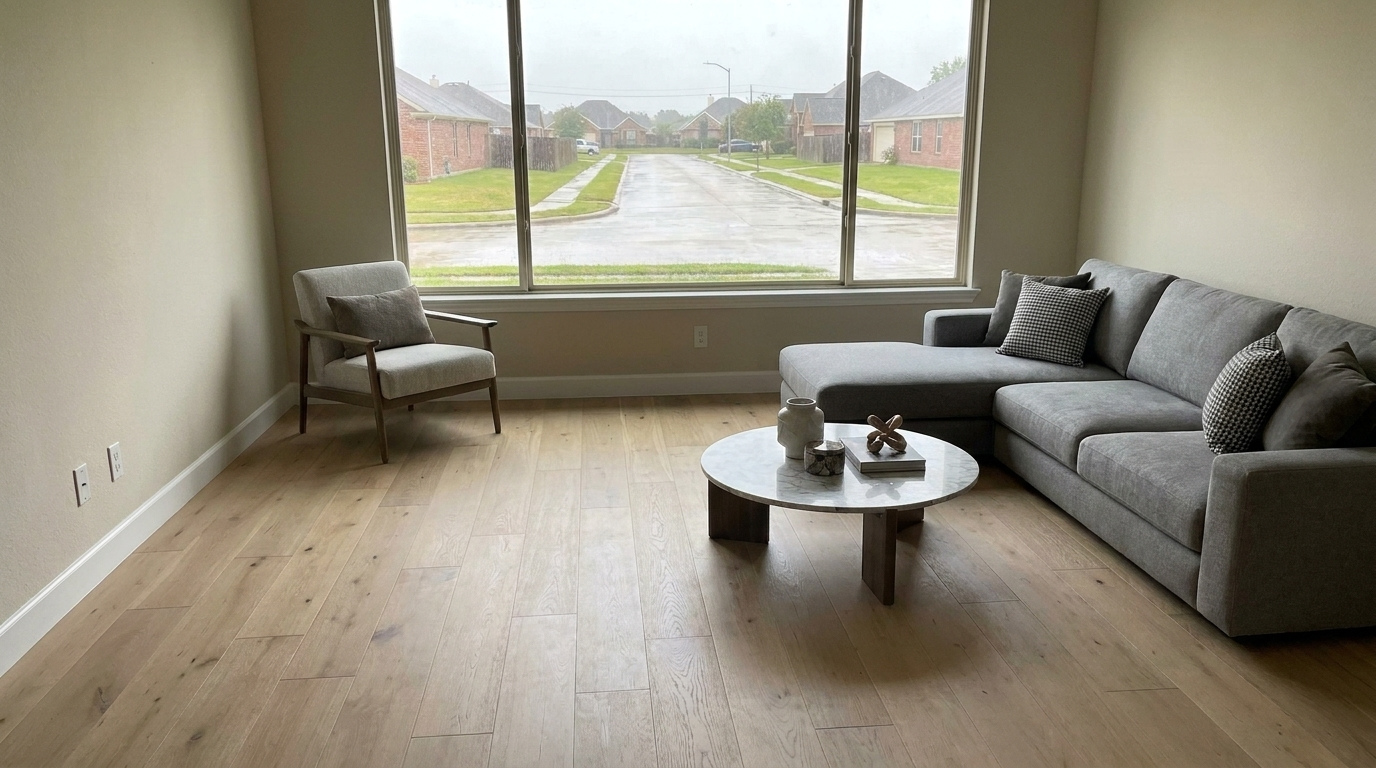
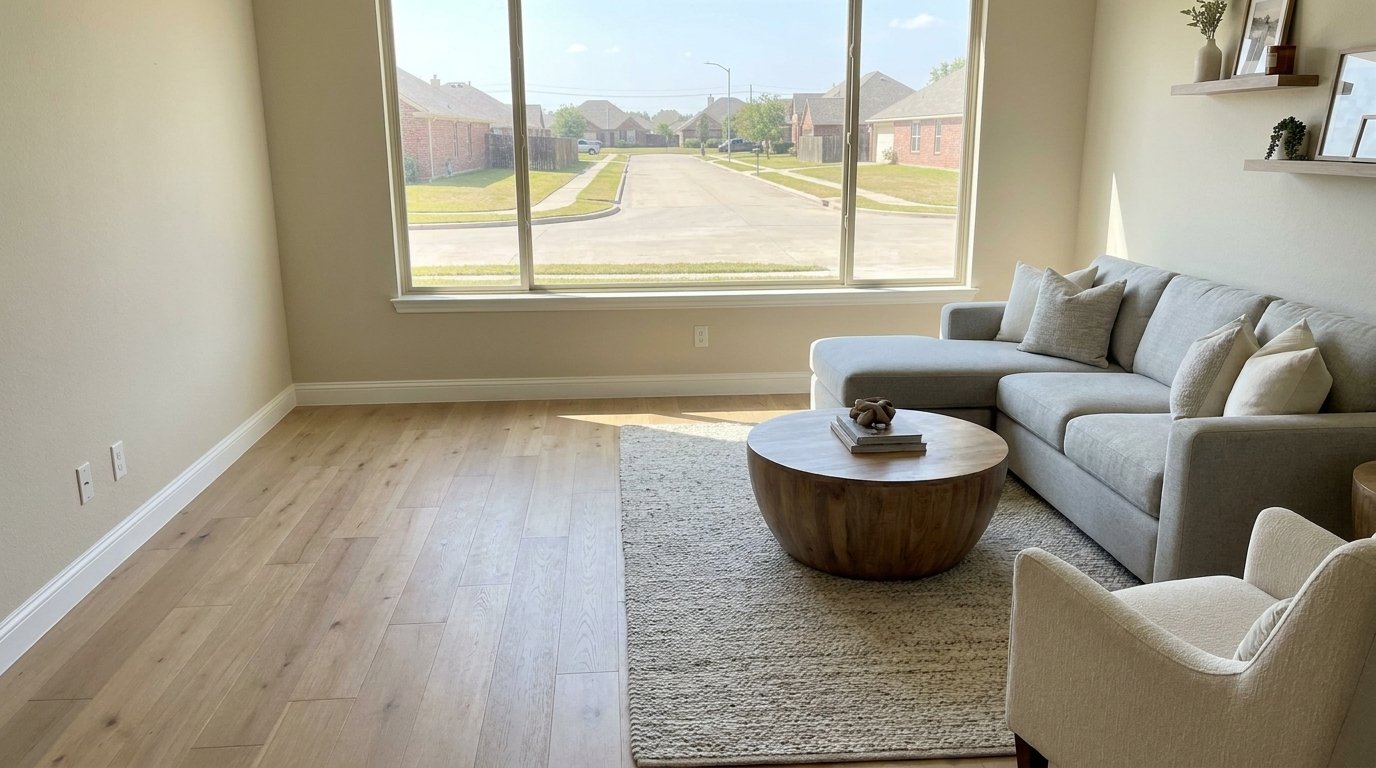
Proof section slimmed fleet-wide, Dry1 all-red accents, Bionic water after on a dry day, real service names [design-change]
Santino 2026-10-04 review:
- "Proof, not promises" (HomeProof): stat tiles (5.0 STARS / LICENSED /
  CERTIFIED / SINCE / 24/7) removed from both starters and all 40 sites that
  carry the section; headline capped at two lines at every width (smaller
  type, wider column, short brand name when the full name is long, "us"
  past a 48-character phone budget). Measured 1-2 lines at 320/360/390/768/
  1366px. scripts/home_proof_slim.py applies it (idempotent).
- Dry1: logo flame red #bd312d is the primary, so icons, badges, links and
  accents are red, no blue; insurance banner solid red (protected path).
- Bionic water pair: the after kept the before's rainy wet street pixel for
  pixel, as if a full floor replacement finished the same afternoon. Shared
  after prompt + docs/image-standards/before-after.md rule 5: same outdoor
  scene on a later, dry, fair-weather day (the "carry over weather" line was
  the cause). New `--redo-pairs water:after` keeps an approved before.
  Approval recorded in image-changes.jsonl.
- "All our services in {city}" showed raw slugs ("commercial-restoration in
  Vista"): 508 service pages in 26 sites stored the slug as service_display.
  Repaired from each page's H1; build_site fallback no longer writes slugs.

diff --git a/src/content/services/basement-flooding-cleanup.md b/src/content/services/basement-flooding-cleanup.md
@@ -14,7 +14,7 @@ internal_links: ["/services/", "/contact/"]
 breadcrumb: [{"name": "Home", "url": "/"}, {"name": "Services", "url": "/services/"}, {"name": "basement-flooding-cleanup"}]
 faq: [{"question": "Does homeowners insurance cover basement flooding cleanup?", "answer": "It depends on the source: sudden water damage from a burst pipe or appliance failure is typically covered, while groundwater seepage and sewer backups are often excluded unless you carry a separate endorsement. BIONIC Emergency Services LLC works with all insurance carriers and documents the source, category of water, and moisture readings so your claim has the records an adjuster needs. We recommend checking your policy's water damage and backup endorsement language before you assume a scenario is covered."}, {"question": "How can I tell if basement water is clean, gray, or contaminated?", "answer": "Clean water usually comes from a supply line or rainwater intrusion with no odor, gray water has some contamination such as runoff or appliance discharge, and black water includes sewage backup or water that has been standing long enough to grow bacteria. The category affects what PPE is used, what materials can be saved, and how waste is disposed of. If there's any sewage smell or the water came from a floor drain or toilet line, treat it as contaminated until confirmed otherwise."}, {"question": "How long does it take to dry out a flooded basement?", "answer": "Structural drying for a basement is typically longer than above-grade spaces because concrete and masonry release moisture slowly, often requiring several days to a week or more of monitored dehumidification. Drying time is verified with moisture meter readings against a dry standard, following IICRC S500 guidelines, rather than estimated by smell or touch. Stopping equipment early is one of the most common causes of mold showing up weeks later."}, {"question": "What should I do in the basement while waiting for help to arrive?", "answer": "Shut off electricity to the basement circuit if it's safe to reach the panel without entering standing water, and avoid walking through water that may be in contact with outlets or appliances. Don't run a shop vac on contaminated water without gloves and eye protection. Move salvageable items like stored boxes or furniture away from the wet area if you can do so safely, and avoid running a dehumidifier or fans until the source of the water has been identified."}, {"question": "Can mold start growing in a basement before it's fully dried?", "answer": "Yes, mold can begin colonizing drywall, framing, and stored materials within 24 to 48 hours of a flood, especially in a basement where humidity stays elevated longer than in above-grade rooms. That window is why extraction and dehumidification starting quickly matters more in basements than almost anywhere else in the house. If drywall or insulation stayed wet for more than two days, it's generally treated as unsalvageable rather than dried in place."}]
 service_slug: "basement-flooding-cleanup"
-service_display: "basement-flooding-cleanup"
+service_display: "Basement Flooding Cleanup"
 rendered: true
 ---
 **Basement flooding in Houston?** Call now for emergency service at (713) 338-2424. Basements are uncommon here because of the high water table and expansive clay soils, so when a basement, cellar, or below-grade space does take on water, it's usually because hydrostatic pressure has pushed water through a foundation crack, a sump pump has failed during a heavy rain event, or a sewer line has backed up under slab. Standing water in an enclosed below-grade space reads differently than water in a living room: it has nowhere to evaporate, the walls are already damp from soil contact, and mold can start colonizing framing and drywall within 24 to 48 hours.

diff --git a/src/content/services/mold-remediation.md b/src/content/services/mold-remediation.md
@@ -14,7 +14,7 @@ internal_links: ["/services/", "/contact/", "/blog/choosing-a-restoration-compan
 breadcrumb: [{"name": "Home", "url": "/"}, {"name": "Services", "url": "/services/"}, {"name": "mold-remediation"}]
 faq: [{"question": "Does homeowners insurance cover mold remediation?", "answer": "It depends on the cause: mold tied to a sudden, covered water event like a burst pipe is often covered, while mold from long-term leaks or humidity is frequently excluded. BIONIC Emergency Services LLC works with all insurance carriers and handles the documentation, moisture readings, and photos your adjuster needs to evaluate the claim."}, {"question": "What level of mold remediation requires IICRC S520-compliant containment?", "answer": "Under the IICRC S520 standard, containment and negative air pressure are typically required once affected areas exceed roughly 10 square feet, though the right approach also depends on the location (HVAC-connected spaces warrant more caution regardless of size). Smaller, isolated spots can sometimes be handled with simpler controls, but we assess each job rather than assuming based on square footage alone."}, {"question": "How long does mold remediation take from start to finish?", "answer": "A contained, single-room job often takes two to three days including setup, removal, treatment, and clearance testing. Larger jobs involving attics, crawlspaces, or multiple rooms take longer, especially if the underlying moisture source also needs to dry out before work can be finalized."}, {"question": "What's the difference between mold removal, remediation, and abatement?", "answer": "These terms are often used interchangeably, but remediation is the broader process, removing affected material, controlling spore spread, and treating surfaces, while removal usually refers to the physical demolition step specifically. Abatement is another industry term for the same overall process of reducing mold to a safe, normal level rather than claiming total elimination, since mold spores exist naturally in all indoor and outdoor air."}, {"question": "What is clearance testing and why does it matter?", "answer": "Clearance testing is air sampling performed after remediation work is complete, compared against a baseline sample taken before work began, to confirm spore counts have returned to a normal range. It's the step that tells you containment can safely come down and the space is ready to be rebuilt or reoccupied."}, {"question": "Can I stay in the home during mold remediation?", "answer": "In many cases, yes, if the affected area can be fully contained and isolated from the rest of the living space. For larger jobs, jobs involving HVAC contamination, or households with respiratory sensitivities, temporary relocation during the active removal phase is sometimes the more practical option, which we'll discuss during the initial assessment."}]
 service_slug: "mold-remediation"
-service_display: "mold-remediation"
+service_display: "Mold Remediation"
 rendered: true
 ---
 If a room has smelled musty for more than a few days, or you've noticed a dark stain spreading along a baseboard or ceiling corner after a roof leak, mold has likely already colonized the material behind the surface. Mold spores that land on wet drywall, framing, or insulation can begin establishing colonies within 24 to 48 hours, and by the time discoloration or odor is noticeable, the growth is often more extensive than what's visible. Mold remediation in Houston addresses both the growth itself and the moisture source feeding it, which is what separates a lasting fix from a repeat problem six months later.

diff --git a/src/content/services/large-loss-response.md b/src/content/services/large-loss-response.md
@@ -14,7 +14,7 @@ internal_links: ["/services/", "/contact/"]
 breadcrumb: [{"name": "Home", "url": "/"}, {"name": "Services", "url": "/services/"}, {"name": "large-loss-response"}]
 faq: [{"question": "Does commercial property insurance cover large loss and catastrophic restoration?", "answer": "Most commercial property and master insurance policies cover sudden, accidental water, fire, or storm damage, though coverage for business interruption and code upgrades depends on the specific policy. BIONIC Emergency Services LLC works with all insurance carriers and large loss adjusters, and provides the daily moisture logs, photo documentation, and written scope that claims of this size require."}, {"question": "How is a large loss job staffed differently than a standard residential water or fire call?", "answer": "A large loss site runs multiple crews working in parallel across different units or floors rather than a single crew moving sequentially. Equipment counts, from desiccant dehumidifiers to air scrubbers, are sized to the total affected square footage, and a project lead coordinates scheduling, documentation, and communication with ownership or property management throughout."}, {"question": "What qualifies a loss as 'large loss' versus a standard residential claim?", "answer": "Large loss generally refers to scale and complexity rather than a single dollar threshold: multi-unit buildings, multiple affected floors, or damage touching more than one building system at once (structural, electrical, HVAC). A catastrophic loss adds urgency, usually tied to a storm or regional flooding event affecting several properties at the same time."}, {"question": "How do you sequence drying and extraction across a multi-building or multi-unit property?", "answer": "Work is phased by priority, starting with life-safety systems and occupied units, then moving through shared walls, corridors, and common areas where moisture tends to migrate. Continuous moisture monitoring tracks progress across every affected area so drying equipment is only pulled once each zone meets dry standard, not on a fixed schedule."}, {"question": "What documentation do large loss adjusters typically require before approving a claim?", "answer": "Adjusters generally want a written scope completed before demolition begins, daily moisture logs tied to specific areas, and photo documentation that matches the scope line by line. Jobs that skip this step and reconstruct the paper trail afterward tend to see claims stall in review, which is why documentation runs in parallel with the physical work on every large loss file we handle."}]
 service_slug: "large-loss-response"
-service_display: "large-loss-response"
+service_display: "Large Loss and Catastrophic Response"
 rendered: true
 ---
 When a loss hits more than one unit, more than one floor, or more than one building at once, the math changes. A single water extraction crew with a few air movers cannot keep pace with a flooded 200-unit apartment complex, a hotel with simultaneous fire and water damage, or a manufacturing floor where downtime costs more per day than the repair itself. Large loss and catastrophic response in Houston means mobilizing multiple crews, heavy equipment, and a single point of project oversight from the first walkthrough through the final certificate of completion.

diff --git a/src/content/services/emergency-water-removal.md b/src/content/services/emergency-water-removal.md
@@ -14,7 +14,7 @@ internal_links: ["/services/", "/contact/", "/services/water-damage-restoration/
 breadcrumb: [{"name": "Home", "url": "/"}, {"name": "Services", "url": "/services/"}, {"name": "emergency-water-removal"}]
 faq: [{"question": "Does homeowners insurance cover emergency water removal and cleanup?", "answer": "Most policies cover sudden, accidental water damage like a burst pipe or failed appliance, though gradual leaks and outside flooding are often excluded or require separate flood coverage. BIONIC Emergency Services LLC works with all insurance carriers and handles the documentation, including moisture logs and photos, that your claim needs. We recommend confirming your specific coverage details with your adjuster since policies vary."}, {"question": "How do you know if water damage is Category 1, 2, or 3?", "answer": "Category 1 is clean water from a source like a supply line, Category 2 has some contamination such as water from a washing machine or dishwasher, and Category 3 is grossly contaminated, like sewage backup or floodwater. The category determines whether materials can be dried in place or need to be removed, and it's confirmed on-site before drying begins. This classification also affects what PPE and treatment protocols apply during cleanup."}, {"question": "Will my carpet and drywall survive water damage or do they have to be replaced?", "answer": "Carpet can often be saved if extraction happens quickly and the water was clean, but carpet pad usually can't be dried effectively and gets replaced. Drywall depends on how high the water wicked and how long it sat; anything saturated beyond a few inches typically gets a flood cut and removed rather than dried in place. A moisture meter reading, not a visual check, determines what stays and what goes."}, {"question": "How long does it take to dry out a house after a water loss?", "answer": "A single wet room with fast extraction can dry in 3 to 5 days, while a multi-room loss with saturated subfloor or wall cavities can take a week or longer. Drying time is tracked with daily moisture readings rather than a fixed schedule, since every structure holds and releases moisture differently. Equipment stays in place until materials hit dry standard, confirmed by meter, not by feel."}, {"question": "What should I do while waiting for emergency water removal to start?", "answer": "Shut off the water source if it's safe to do so, move furniture and valuables off wet flooring, and avoid running a shop vac on anything beyond light surface water if the source may be contaminated. Don't turn on ceiling fixtures or outlets near standing water. Taking photos of the damage before cleanup starts helps with insurance documentation."}]
 service_slug: "emergency-water-removal"
-service_display: "emergency-water-removal"
+service_display: "Emergency Water Removal & Cleanup"
 rendered: true
 ---
 **Water pooling across your floors right now?** Call (713) 338-2424. We answer 24/7, and every hour that water sits against drywall, flooring, or subfloor is an hour closer to secondary damage and mold colonization, which can begin in as little as 24 to 48 hours in Houston's humidity.

diff --git a/src/content/services/commercial-restoration.md b/src/content/services/commercial-restoration.md
@@ -14,7 +14,7 @@ internal_links: ["/services/", "/contact/"]
 breadcrumb: [{"name": "Home", "url": "/"}, {"name": "Services", "url": "/services/"}, {"name": "commercial-restoration"}]
 faq: [{"question": "Does commercial property insurance cover water and fire damage restoration?", "answer": "Most commercial property policies cover sudden, accidental water and fire losses, though coverage for business interruption and tenant improvements depends on your specific policy. BIONIC Emergency Services LLC works with all insurance carriers and documents the loss, the affected areas, and the work performed so you have what's needed to support a claim."}, {"question": "How do you handle restoration in a building with multiple tenants?", "answer": "We map the full building before starting work, not just the unit where the loss originated, since shared walls, HVAC systems, and corridors can carry water or smoke into neighboring spaces. Where it's safe, we isolate and treat affected zones so tenants in unaffected areas can stay operational while work continues."}, {"question": "Can my business stay open during commercial water or fire damage restoration?", "answer": "It depends on the extent of the damage and whether the affected area can be contained from the rest of the building. In many cases we can phase the work, drying or cleaning one zone while the rest of the space remains in use, but a building-wide scope assessment is the only way to know for sure."}, {"question": "What documentation will I get for insurance and property management reporting?", "answer": "You'll receive a written scope of work, moisture or air quality readings tied to specific areas of the building, and photo documentation of conditions before and after the work. This is built to support both a commercial insurance claim and reporting to property owners or management companies."}, {"question": "How is a commercial water category (clean, gray, black) determined and why does it matter?", "answer": "The source of the water, a clean supply line versus a sewage backup versus floodwater, determines the category, and that category drives what PPE, containment, and disposal procedures are required. Misclassifying the water is one of the more common technical mistakes on commercial jobs, since it affects both worker safety and what materials can be dried versus must be removed."}]
 service_slug: "commercial-restoration"
-service_display: "commercial-restoration"
+service_display: "Commercial Restoration"
 rendered: true
 ---
 **Commercial property loss in Houston?** Call now for emergency service. A flooded server room, a smoke-damaged sales floor, or a burst supply line in a multi-tenant office building doesn't wait for a convenient time, and neither does the lease clock, the inventory sitting in a stockroom, or the staff who can't come to work until the space is safe. Commercial restoration is a different job than a residential one: more square footage, more stakeholders, and a business trying to stay open or reopen fast.

diff --git a/src/content/services/industrial-restoration.md b/src/content/services/industrial-restoration.md
@@ -14,7 +14,7 @@ internal_links: ["/services/", "/contact/"]
 breadcrumb: [{"name": "Home", "url": "/"}, {"name": "Services", "url": "/services/"}, {"name": "industrial-restoration"}]
 faq: [{"question": "Does commercial or industrial property insurance cover water and fire damage restoration?", "answer": "Most commercial property policies cover sudden water and fire damage, though coverage for business interruption, inventory, and equipment loss depends on the specific policy and endorsements. BIONIC Emergency Services works with all insurance carriers and documents the loss, including moisture logs and photos, to support your claim from the start."}, {"question": "How is industrial water damage different from a typical residential water loss?", "answer": "Industrial facilities have large open footprints, concrete slab flooring, and equipment pits that let water travel much further and faster than it would in a house. Moisture mapping has to cover the whole affected area, including under racking and inside equipment pads, not just the visible wet zone."}, {"question": "Can part of our facility keep operating while restoration work is happening?", "answer": "Often yes, depending on where the damage is and how it's contained. We use containment barriers and air management to isolate the affected area so moisture or soot doesn't migrate back into zones that are back in operation."}, {"question": "What's the difference between protein-based and synthetic soot in a plant fire?", "answer": "Protein-based soot comes from organic materials and tends to be a thin, greasy film that's hard to see but has a strong odor. Synthetic soot from plastics, foams, and chemical inventory is typically thicker, more acidic, and more corrosive to metal equipment, which changes both the cleaning method and the timeline."}, {"question": "How quickly does standing water become a mold risk in a Houston warehouse?", "answer": "In Houston's humidity, untreated standing water or saturated materials can begin supporting mold growth within 24 to 48 hours, faster in enclosed mezzanines or rooms with poor airflow. That's why moisture monitoring continues daily until all affected materials reach dry standard, not just until the floor looks dry."}]
 service_slug: "industrial-restoration"
-service_display: "industrial-restoration"
+service_display: "Industrial Restoration"
 rendered: true
 ---
 **Water pooling under a pallet rack system or smoke rolling through a production line doesn't wait for a convenient time.** When a cooling tower overflows, a sprinkler head fails above a server room, or a fire breaks out near a loading dock, the damage spreads through concrete, steel, and process equipment differently than it does through a house. BIONIC Emergency Services answers 24/7 for industrial restoration in Houston, bringing IICRC-trained technicians to warehouses, manufacturing plants, and distribution centers where downtime costs more per hour than most residential jobs cost in total.

diff --git a/src/content/services/general-contracting.md b/src/content/services/general-contracting.md
@@ -14,7 +14,7 @@ internal_links: ["/services/", "/contact/"]
 breadcrumb: [{"name": "Home", "url": "/"}, {"name": "Services", "url": "/services/"}, {"name": "general-contracting"}]
 faq: [{"question": "Does homeowners insurance cover the rebuild after water or fire damage?", "answer": "In most cases, yes, if the underlying cause was a covered peril, your policy typically pays to rebuild the affected space back to its pre-loss condition. BIONIC Emergency Services LLC works with all insurance carriers and documents the scope, materials, and finishes needed to support your claim throughout the rebuild."}, {"question": "Do you handle the permitting for a kitchen or bathroom remodel?", "answer": "Yes, structural changes and most electrical or plumbing rough-in work require permits through the local jurisdiction. We identify what your specific scope requires and submit for permits so inspections don't delay the project."}, {"question": "How do you match materials and finishes after a post-damage rebuild?", "answer": "We document existing flooring, cabinetry, trim, and paint before demo starts so replacement materials can be matched as closely as possible, which is also what insurance adjusters look for when approving like-kind-and-quality repairs. Exact matches aren't always available, especially with discontinued flooring or cabinet lines, so we'll flag any mismatch risk during the scoping conversation."}, {"question": "Can reconstruction start before mitigation and drying are finished?", "answer": "No, framing and finish work should not close up a space until structural drying has been verified, otherwise moisture gets trapped behind new drywall or flooring. We coordinate directly with the mitigation timeline so rebuild work starts only once the space is confirmed dry."}, {"question": "How long does a typical kitchen or bathroom remodel take?", "answer": "A bathroom remodel typically runs two to four weeks once materials arrive, while a kitchen remodel with cabinet and layout changes usually runs four to eight weeks. Cabinet and countertop lead times are often the main factor that stretches a schedule, so we account for that during the scoping phase."}]
 service_slug: "general-contracting"
-service_display: "general-contracting"
+service_display: "Renovations, Remodels and General Contracting"
 rendered: true
 ---
 A burst pipe gets dried out, a kitchen fire gets the soot wiped down, and then the homeowner is left staring at open studs, a subfloor that doesn't match, or a bathroom that's been gutted to the slab with no clear plan to put it back together. That gap between mitigation and a livable house again is where general contracting and reconstruction work starts. It also covers the renovations and remodels homeowners take on outside of any insurance claim: a dated kitchen, a bathroom that needs to be reconfigured, or a room addition that finally makes the house work for the family living in it.

diff --git a/src/content/services/burst-pipe-repair.md b/src/content/services/burst-pipe-repair.md
@@ -14,7 +14,7 @@ internal_links: ["/services/", "/contact/"]
 breadcrumb: [{"name": "Home", "url": "/"}, {"name": "Services", "url": "/services/"}, {"name": "burst-pipe-repair"}]
 faq: [{"question": "Does homeowners insurance cover burst pipe cleanup and repair?", "answer": "Yes, most homeowners policies cover sudden and accidental pipe bursts, though damage from long-term, unaddressed leaks or corrosion is often excluded. BIONIC works with all insurance carriers and handles the documentation, moisture readings, and photos your claim needs. We recommend confirming your specific coverage with your carrier since policy language varies."}, {"question": "How do I know if a pipe break is still active or if it already stopped?", "answer": "If you can hear running water, see water actively spreading, or the area keeps getting wetter after you've mopped it up, the line is likely still open somewhere. Shutting off the main water valve is the fastest way to confirm; if the wet area stops growing, the source is isolated. Don't assume a quiet pipe means no more water is moving, since water can still be draining from a saturated wall cavity or ceiling for hours."}, {"question": "Will you repair the actual pipe, or just handle the water damage?", "answer": "Our scope covers water extraction, structural drying, and the demolition needed to access and dry affected materials. Pipe repair itself (soldering, replacing a section of copper or PEX, re-coupling) typically goes through a licensed plumber, and we coordinate timing so the repair happens before we close drying equipment back up."}, {"question": "How long does drying take after a pipe break floods a wall cavity?", "answer": "Open-room drying often finishes in 3 to 5 days, but a saturated wall cavity, subfloor, or ceiling assembly can take longer because the water is trapped behind a surface that limits airflow. We monitor moisture content daily with meters and don't call a structure dry until the framing and subfloor readings match dry standard, not just the drywall surface."}, {"question": "Why does the wet area on my ceiling look smaller than where the pipe actually broke?", "answer": "Water follows gravity and the path of least resistance, so a break inside a second-floor wall or under a bathroom can travel several feet before it shows up as a stain on a first-floor ceiling. That's why we trace the full water path with moisture meters and thermal imaging rather than only treating the visible stain, since untreated hidden pockets are the most common source of mold growth after a pipe break."}]
 service_slug: "burst-pipe-repair"
-service_display: "burst-pipe-repair"
+service_display: "Burst Pipe Cleanup and Repair"
 rendered: true
 ---
 **Burst pipe in your Houston home right now?** Shut off the main water valve, kill power to any outlets near standing water, and call. We answer 24/7 for burst pipe cleanup and repair across the Houston area.

diff --git a/src/content/services/reconstruction.md b/src/content/services/reconstruction.md
@@ -14,7 +14,7 @@ internal_links: ["/services/", "/contact/"]
 breadcrumb: [{"name": "Home", "url": "/"}, {"name": "Services", "url": "/services/"}, {"name": "reconstruction"}]
 faq: [{"question": "Does homeowners insurance cover reconstruction after water or fire damage?", "answer": "In most cases, yes, if the underlying cause is a covered peril like a burst pipe or fire, though coverage typically applies to like-for-like replacement rather than upgrades. BIONIC Emergency Services LLC works with all insurance carriers and handles the claim documentation, including matching the reconstruction scope to the adjuster's estimate."}, {"question": "How do you know when a structure is dry enough to start reconstruction?", "answer": "Our technicians, certified in IICRC structural drying standards, confirm moisture readings in framing and subfloor before any rebuild begins. Closing up walls over materials that are still wet is one of the most common causes of recurring mold and structural problems after a rebuild."}, {"question": "Do I need a permit to rebuild after fire or water damage?", "answer": "Structural, electrical, and plumbing work typically requires a permit through the local building department, even when the repair is replacing something that was already there. We identify permit requirements during the scope of work phase so the project doesn't stall partway through."}, {"question": "What's the difference between reconstruction and the mitigation work that happens first?", "answer": "Mitigation stops the damage from getting worse, extracting water, removing soot, or demolishing compromised materials. Reconstruction is the rebuild phase that follows, replacing framing, drywall, flooring, and finishes to return the space to a livable condition."}, {"question": "Can reconstruction match my home's existing trim, flooring, and finishes?", "answer": "In many cases yes, especially for smaller repairs where matching materials are still available, but older homes with discontinued flooring or custom trim sometimes require a broader repair area to keep finishes consistent. We flag material matching concerns during the scope of work so there are no surprises once the rebuild starts."}]
 service_slug: "reconstruction"
-service_display: "reconstruction"
+service_display: "Reconstruction"
 rendered: true
 ---
 Water extraction crews and fire suppression teams stop the damage. Reconstruction brings the structure back to a livable, insurable condition, framing replaced where studs were cut out for mold access, subfloor reset after Category 3 water intrusion, drywall and trim rebuilt after a kitchen fire burned through to the stud bays. If the mitigation crew already left and you're staring at open walls, missing flooring, or a tarped roof wondering what happens next, that's the gap reconstruction services fill.

diff --git a/src/content/services/mold-inspection-testing.md b/src/content/services/mold-inspection-testing.md
@@ -14,7 +14,7 @@ internal_links: ["/services/", "/contact/", "/blog/how-to-test-for-mold/"]
 breadcrumb: [{"name": "Home", "url": "/"}, {"name": "Services", "url": "/services/"}, {"name": "mold-inspection-testing"}]
 faq: [{"question": "Does homeowners insurance cover mold inspection and testing?", "answer": "It depends on the cause: testing tied to a covered water event, like a burst pipe or appliance failure, is often covered, while testing for general concern or a real estate transaction usually isn't. BIONIC Emergency Services works with all insurance carriers and handles the documentation needed to support a claim when the mold is linked to a covered loss."}, {"question": "What's the difference between air sampling and surface sampling?", "answer": "Air sampling, usually done with a spore trap, measures what's circulating in the air you're breathing, including spores pulled through the HVAC system. Surface or tape sampling identifies what's actually growing on a specific material, which is useful when there's visible staining or growth you want identified by species and concentration."}, {"question": "How long does it take to get mold test results back?", "answer": "Standard lab turnaround typically runs a few business days once samples are submitted. Rush processing is available for an additional fee if you need results faster, for example ahead of a real estate closing deadline."}, {"question": "Do I need to leave the house during a mold inspection?", "answer": "No, a typical inspection and sampling visit doesn't require you to leave. The technician does ask that doors and windows stay closed for a period before indoor air sampling so the results reflect normal indoor conditions rather than outside air that just blew through."}, {"question": "When should I get clearance testing after mold remediation?", "answer": "Clearance testing is done after the remediation contractor finishes removal and cleaning but before the area is rebuilt or closed back up. It confirms spore counts have returned to a level consistent with the outdoor baseline before you put drywall or flooring back in place."}]
 service_slug: "mold-inspection-testing"
-service_display: "mold-inspection-testing"
+service_display: "Mold Inspection and Testing"
 rendered: true
 ---
 **Musty smell that won't go away, a water stain that's been there for months, or a home inspection report that flagged "possible moisture intrusion"?** Those are the three most common reasons Houston homeowners search for mold testing, and all three share the same problem: you can't see what's actually growing behind the drywall or under the subfloor without sampling the air and surfaces directly. A visual walk-through tells you where moisture has been. Testing tells you what's actually colonizing there and at what concentration.

diff --git a/src/content/services/ceiling-water-damage-repair.md b/src/content/services/ceiling-water-damage-repair.md
@@ -14,7 +14,7 @@ internal_links: ["/services/", "/contact/"]
 breadcrumb: [{"name": "Home", "url": "/"}, {"name": "Services", "url": "/services/"}, {"name": "ceiling-water-damage-repair"}]
 faq: [{"question": "Does homeowners insurance cover ceiling water damage repair?", "answer": "Often yes, particularly when the source is sudden, like a burst supply line or an appliance failure, but coverage is less certain for damage traced to a long-neglected roof leak. BIONIC Emergency Services LLC works with all insurance carriers and documents the source, moisture readings, and repair scope your adjuster needs to process the claim."}, {"question": "My ceiling is sagging but hasn't leaked yet, is it safe to wait until morning?", "answer": "A visibly sagging or bellied ceiling section means water is already pooled above it, and the drywall or plaster can fail suddenly without further warning. We answer 24/7 and can relieve the trapped water in a controlled way rather than risk a collapse onto flooring or furniture below."}, {"question": "How do you find the source of a ceiling leak if there's no obvious pipe above it?", "answer": "We trace moisture using meters and, when needed, thermal imaging to follow how far water has traveled from the visible stain, since it often moves sideways along joists or ductwork before showing up on the ceiling surface. Common sources include roof flashing, HVAC condensate lines, and second-floor plumbing, and confirming the right one keeps us from drying around an active leak."}, {"question": "Can wet insulation above a ceiling just be dried out instead of replaced?", "answer": "Saturated insulation usually loses most of its effectiveness and is difficult to dry back to a usable condition, so it's typically removed and replaced rather than dried in place. Leaving wet insulation behind a repaired ceiling is one of the more common causes of a stain or mold problem reappearing months later."}, {"question": "Is a popcorn or textured ceiling repair handled differently in older Houston homes?", "answer": "Textured ceilings installed before 1978 can contain lead, which changes how the material is cut out and handled compared to a modern drywall patch. We factor the home's age into the repair approach before any cutting begins."}]
 service_slug: "ceiling-water-damage-repair"
-service_display: "ceiling-water-damage-repair"
+service_display: "Ceiling Water Damage Repair"
 rendered: true
 ---
 **Water coming through your ceiling right now?** Call (713) 338-2424. A sagging or actively dripping ceiling means water has already pooled in the cavity above it, and drywall or plaster can let go with very little warning. We answer 24/7, and the first priority on-site is always relieving that trapped weight safely before anyone worries about repairs.

diff --git a/src/content/services/smoke-damage-restoration.md b/src/content/services/smoke-damage-restoration.md
@@ -14,7 +14,7 @@ internal_links: ["/services/", "/contact/", "/blog/fire-damage-restoration-proce
 breadcrumb: [{"name": "Home", "url": "/"}, {"name": "Services", "url": "/services/"}, {"name": "smoke-damage-restoration"}]
 faq: [{"question": "Does homeowners insurance cover smoke damage restoration?", "answer": "Most homeowners policies cover smoke damage restoration when it results from a covered fire event, including residue cleanup, odor neutralization, and affected contents. BIONIC Emergency Services LLC works with all insurance carriers and documents the loss with photos and a written scope so the claim has the evidence an adjuster needs."}, {"question": "What's the difference between protein soot and synthetic soot, and why does cleanup vary?", "answer": "Protein soot, usually from kitchen fires, is nearly invisible but carries an intense odor that clings to surfaces, while synthetic soot from burning plastics and furnishings leaves heavier, oily residue that smears if wiped with the wrong agent. Each type requires a different cleaning chemistry, so misidentifying the soot type often means residue gets spread rather than removed."}, {"question": "How soon after a fire does smoke odor become permanent?", "answer": "Odor molecules start bonding to porous materials like drywall, fabric, and wood within the first few days, and humidity speeds up that process. Waiting longer than a week without treatment significantly increases the chance that odor becomes embedded deep enough to require sealing or encapsulation instead of simple cleaning."}, {"question": "Can wildfire smoke infiltrate a home that wasn't directly burned?", "answer": "Yes. Wildfire smoke carries fine particulate that enters through HVAC intakes, window gaps, and attic vents, settling into filters, fabric, and ductwork even when the structure itself was never near flames. That residue produces the same lingering odor issue as a structure fire and requires the same characterization and cleaning approach."}, {"question": "What happens to HVAC systems after a smoke event?", "answer": "Smoke particles get pulled into return vents and recirculated through ductwork every time the system runs, which means a home can smell like smoke weeks after visible soot is gone if the HVAC isn't addressed. Duct cleaning and filter replacement are typically part of a full smoke damage restoration scope, not a separate afterthought."}]
 service_slug: "smoke-damage-restoration"
-service_display: "smoke-damage-restoration"
+service_display: "Smoke Damage Restoration"
 rendered: true
 ---
 **Smoke damage emergency in Houston?** Call (713) 338-2424 now. We answer 24/7 and start documenting and treating smoke-affected surfaces before residue has a chance to set permanently into paint, grout, and HVAC systems.
